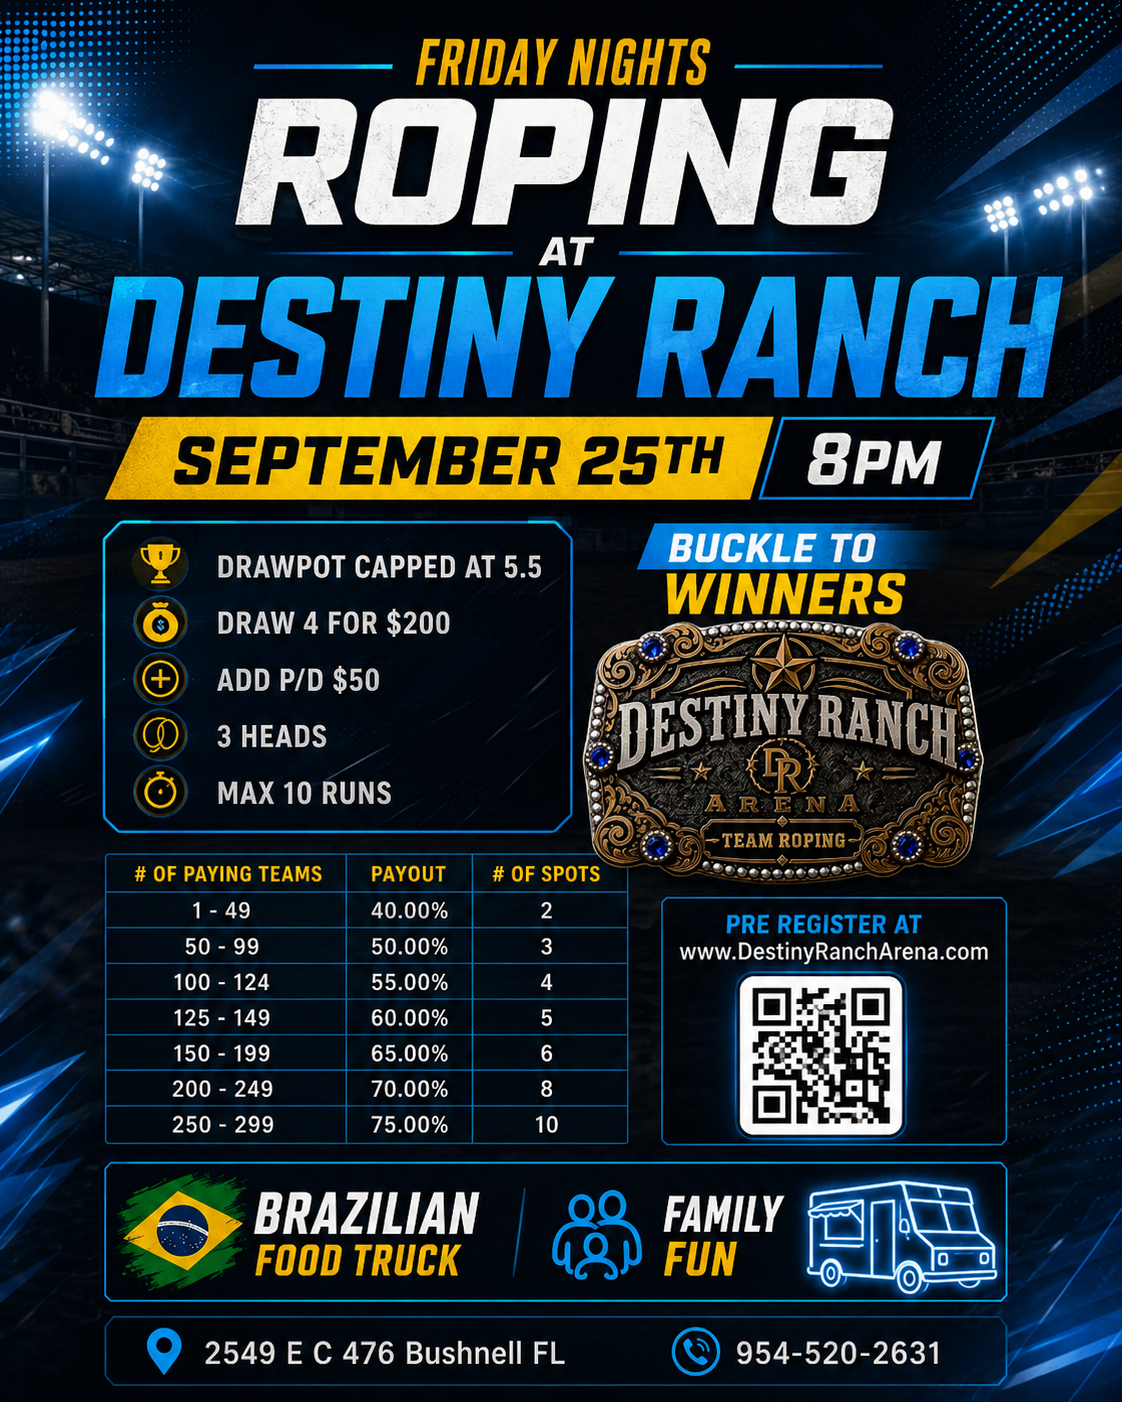
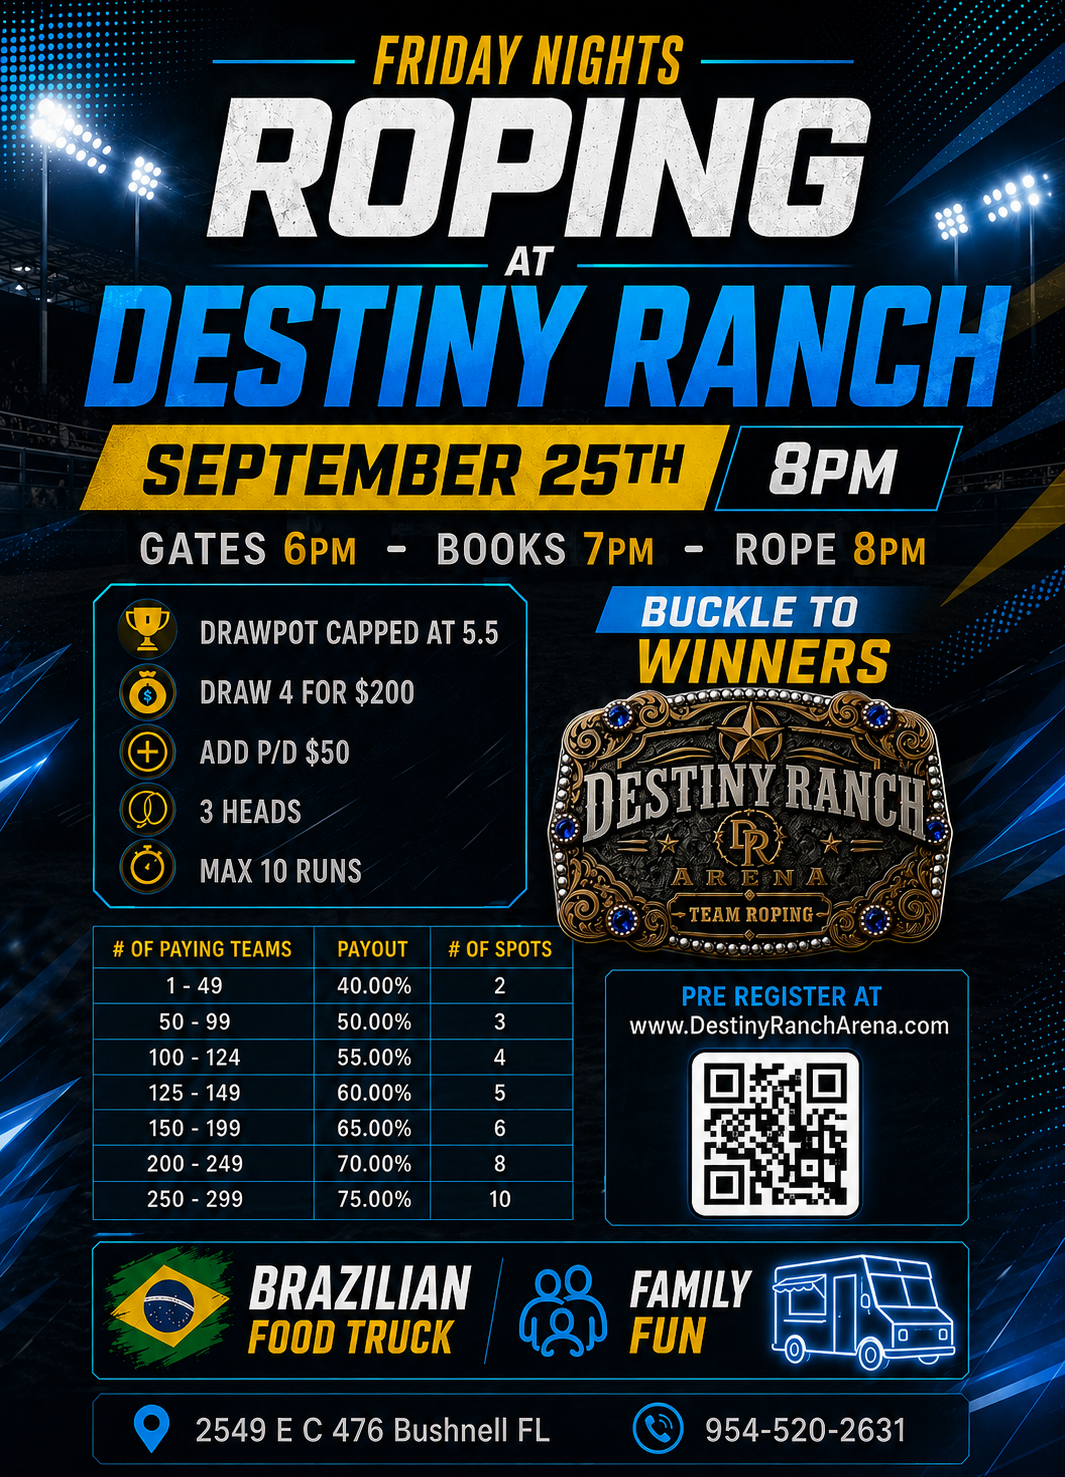
Update September 25 flyer with gate, books, and rope times (#92)
* Limit ride-in riders to draw participants for pick-and-draw

The Run Desk ride-in form listed every eligible contestant even when a
pick-and-draw roping was running. The header and heeler dropdowns now
only offer riders with an active draw registration, and submission is
blocked with a clear message if a rider is not entered in the draw —
matching the existing Registration Desk picked-team rule.

* Replace August 28 future-event flyer with August 30 reschedule flyer

The Mixed Roping event was rescheduled to Sunday, August 30 at 9:00 AM
due to weather. The Future Events section now shows the updated flyer
with the reschedule banner in place of the original August 28 flyer.

* Add slide rules option to Round Robin ropings

A Round Robin can now opt into slide rules with a new 'Apply slide
rules' toggle in the roping form, which reveals the slide number field.
When enabled, Round 2 times adjust 0.5 seconds per 0.5 team handicap
above or below the slide number, capped at 4 seconds — identical to the
Slide format. The Run Desk, reports, and public competition details show
the slide adjustment for these ropings the same way they do for Slides.

* Respect Not progressive setting so no-time teams advance rounds

- applyRunResult: no-time results advance to the next round when the
  event is not progressive (or before the progressive round)
- syncShortGoFinalists: include no-time teams in the final round when
  qualification is not required; append missing teams to an already
[…]

diff --git a/src/publicFlyers.test.ts b/src/publicFlyers.test.ts
@@ -13,7 +13,7 @@ describe("public flyer categories", () => {
       },
       {
         src: "./september-25-friday-night-roping-flyer.png",
-        alt: "Destiny Ranch Arena September 25 Friday Night Roping flyer — Drawpot capped at 5.5, 8:00 PM",
+        alt: "Destiny Ranch Arena September 25 Friday Night Roping flyer — Drawpot capped at 5.5, gates 6 PM, rope 8 PM",
       },
       {
         src: "./october-3-round-robin-9-slide-flyer.png",

diff --git a/src/publicFlyers.ts b/src/publicFlyers.ts
@@ -10,7 +10,7 @@ export const futureEventFlyers: PublicFlyer[] = [
   },
   {
     src: "./september-25-friday-night-roping-flyer.png",
-    alt: "Destiny Ranch Arena September 25 Friday Night Roping flyer — Drawpot capped at 5.5, 8:00 PM",
+    alt: "Destiny Ranch Arena September 25 Friday Night Roping flyer — Drawpot capped at 5.5, gates 6 PM, rope 8 PM",
   },
   {
     src: "./october-3-round-robin-9-slide-flyer.png",
